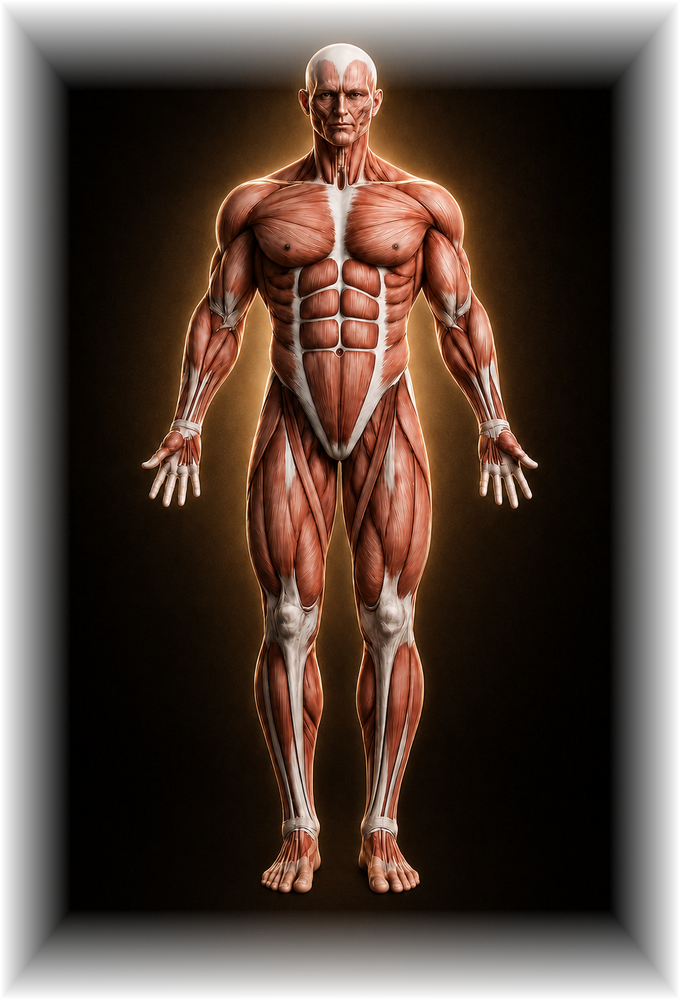
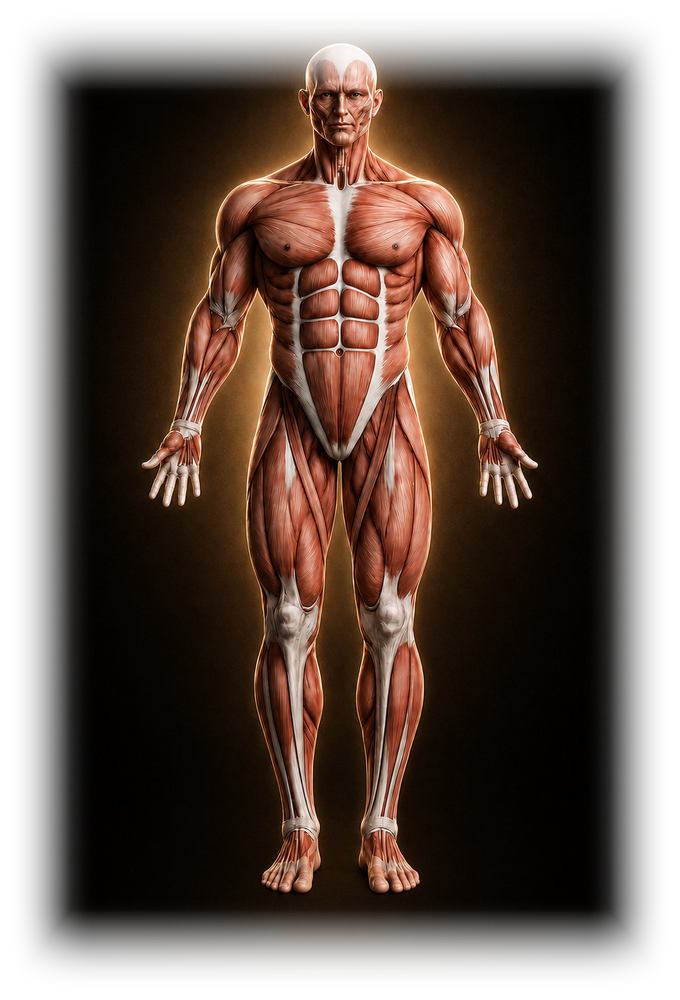
v80: bordes del cuerpo frontal difuminados a transparente (esquinas/arriba/abajo) para que se funda con el fondo oscuro y no se vea como foto rectangular pegada. Limite: el cuerpo llena el marco, el halo dorado lateral no se puede quitar sin una imagen fuente con fondo transparente

diff --git a/app.js b/app.js
@@ -2566,7 +2566,7 @@ async function openExTab() {
    Zonas en coordenadas naturales de cada imagen (front 616×1000, back 459×1000)
    ════════════════════════════════════════════════════════════ */
 const BM_VIEWS = {
-  front: { img: 'body-front.png?v=20', vb: '112 35 456 930', w: 456, h: 930, zones: [
+  front: { img: 'body-front.png?v=21', vb: '112 35 456 930', w: 456, h: 930, zones: [
     { bp:'shoulders',  label:'Hombros',    cx:235, cy:222, rx:32,  ry:28 },
     { bp:'shoulders',  label:'Hombros',    cx:445, cy:222, rx:32,  ry:28 },
     { bp:'chest',      label:'Pecho',      cx:340, cy:280, rx:76,  ry:46 },

diff --git a/index.html b/index.html
@@ -7,7 +7,7 @@
   <link rel="preconnect" href="https://fonts.googleapis.com">
   <link rel="preconnect" href="https://fonts.gstatic.com" crossorigin>
   <link href="https://fonts.googleapis.com/css2?family=Inter:wght@300;400;500;600;700;800;900&display=swap" rel="stylesheet">
-  <link rel="stylesheet" href="styles.css?v=79">
+  <link rel="stylesheet" href="styles.css?v=80">
 
   <!-- Aplica tema ANTES del primer render para evitar flash de color incorrecto -->
   <script>
@@ -1452,8 +1452,8 @@
 
 </div><!-- /phone -->
 
-<script src="firebase.js?v=79"></script>
-<script src="app.js?v=79"></script>
+<script src="firebase.js?v=80"></script>
+<script src="app.js?v=80"></script>
 
 </body>
 </html>

diff --git a/sw.js b/sw.js
@@ -1,4 +1,4 @@
-const CACHE = 'nutripro-v79';
+const CACHE = 'nutripro-v80';
 const FILES = [
   './',
   './index.html',
